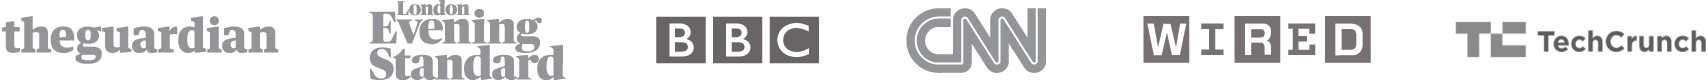
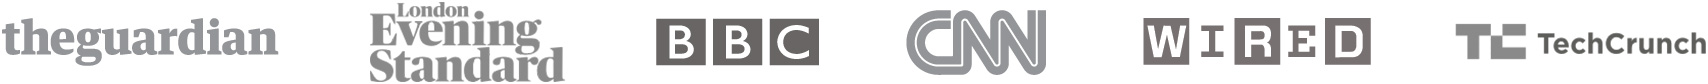
Fixed publication image height

diff --git a/assets/css/modules/benefits-led-container.scss b/assets/css/modules/benefits-led-container.scss
@@ -18,7 +18,7 @@
 }
 
 .benefits-led-container__publications {
-  @include at2x('/images/press/publications', 970px, 45px, ".jpg");
+  @include at2x('/images/press/publications', 970px, 48px, ".jpg");
   width: 970px;
-  height: 45px;
+  height: 48px;
 }
